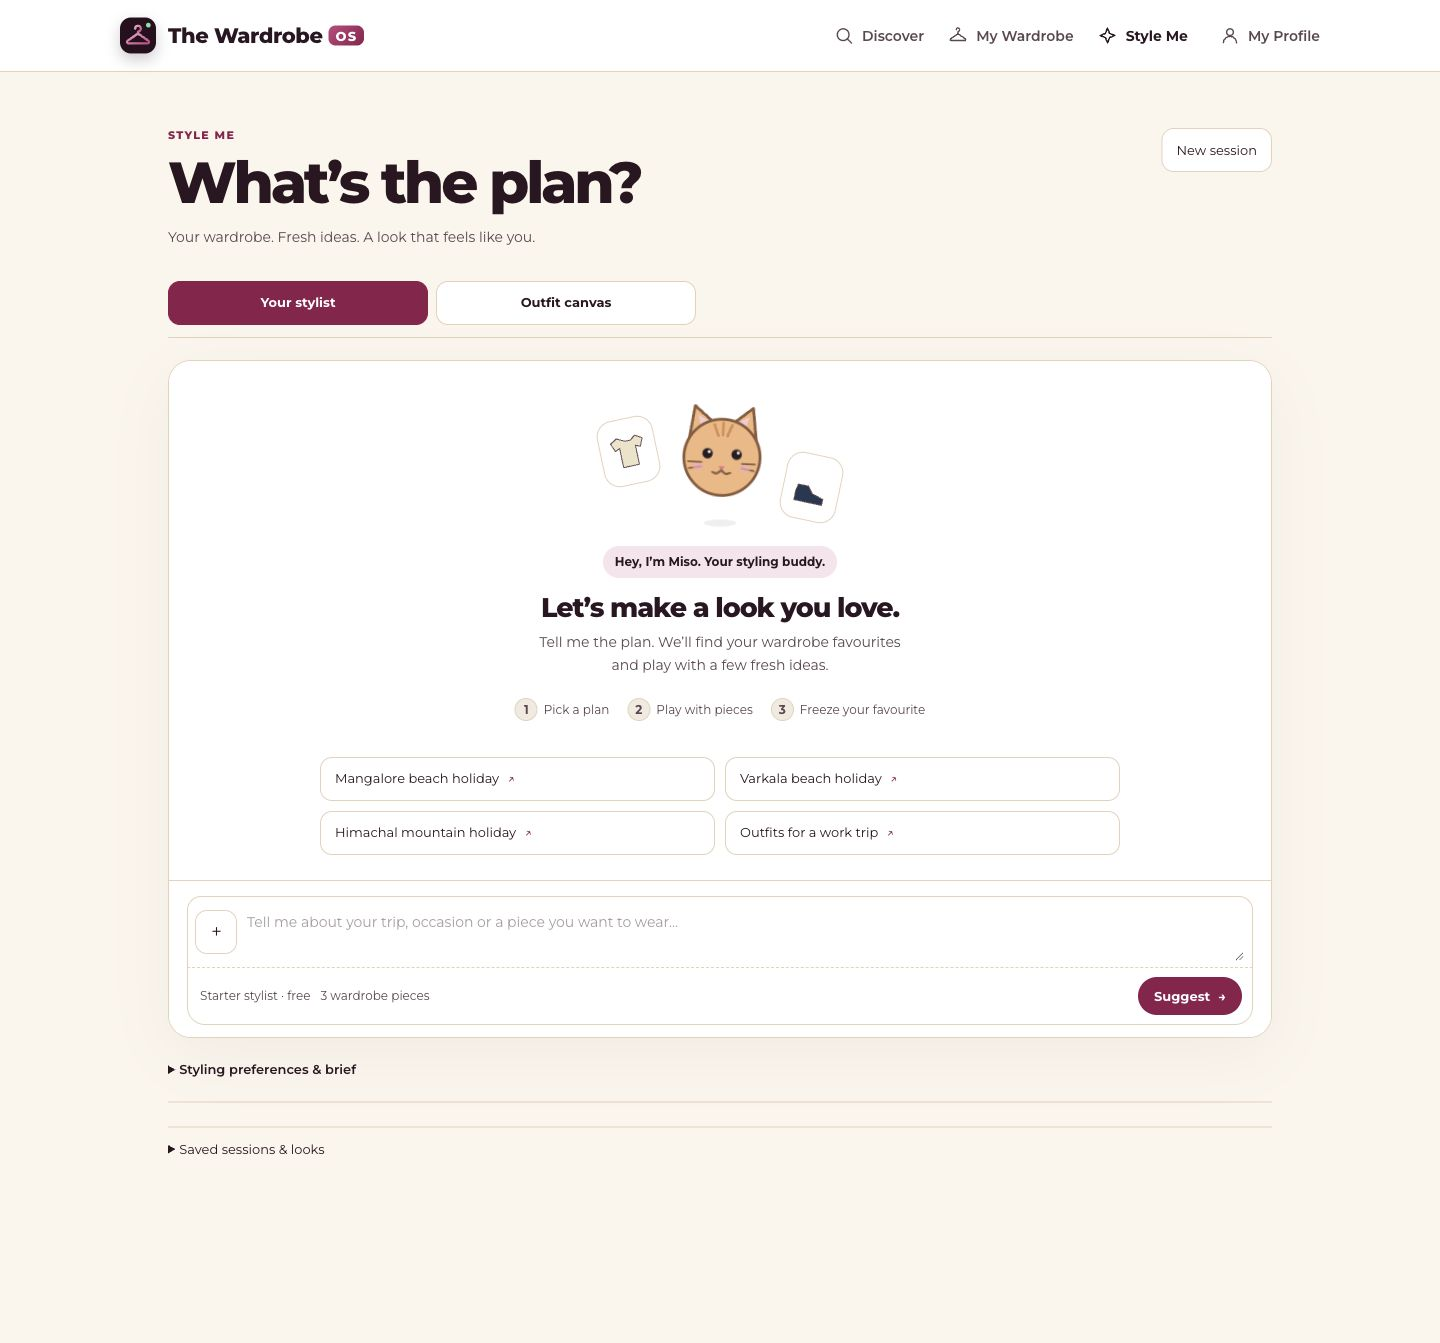
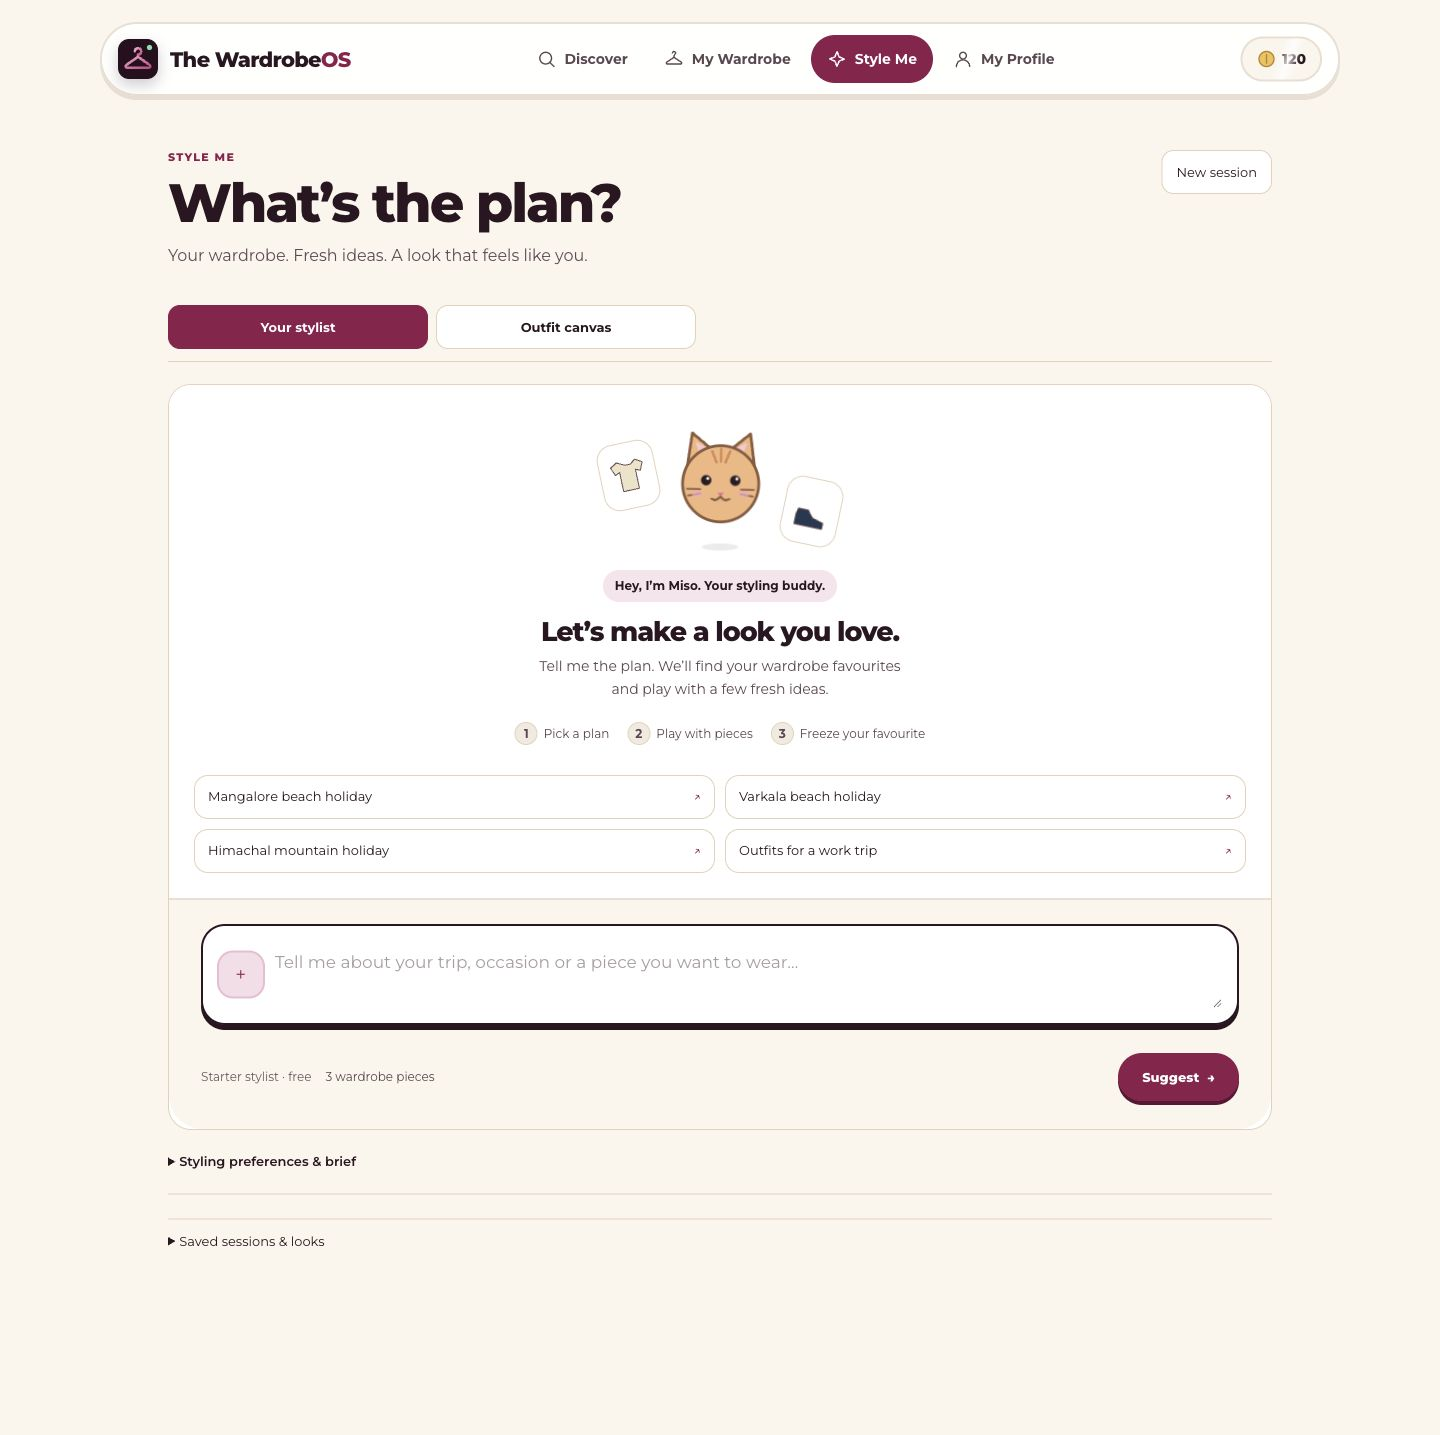
Keep Style Me visible when shared Sticker Studio styles load
Scope the greeting, prompts and mobile composer so Discover overrides do not hide or flatten them. Verified desktop and 390px browser rendering after integrating main, with no phone overflow; integrated suite passed 238 tests with 2 existing skips.

diff --git a/prototype/dist/style-me/style-me.css b/prototype/dist/style-me/style-me.css
@@ -36,3 +36,7 @@
 .sm-buddy-checkin{display:flex;gap:10px;align-items:center;padding-bottom:12px;border-bottom:1px solid var(--border)}.sm-buddy-checkin strong{font-size:13px}.sm-buddy-checkin .sm-style-steps{margin:10px 0 0;justify-content:flex-start}.sm-root .sm-buddy-checkin .sm-buddy{min-width:56px;min-height:56px}@media(max-width:700px){.sm-buddy-checkin{align-items:flex-start}.sm-buddy-checkin>div{flex:1}.sm-buddy-checkin .sm-style-steps{justify-content:space-between}.sm-buddy-checkin .sm-style-steps li{font-size:11px}.sm-root .dc-intro h1{font-size:29px}.sm-root .dc-intro p{font-size:13px}}
 
 @media(max-width:700px){.sm-root .dc-intro{display:block;position:relative;margin-bottom:18px}.sm-root .dc-intro .dc-kicker{padding-top:6px;margin-bottom:26px}.sm-root .dc-intro .dc-reset{position:absolute;top:0;right:0;min-height:36px;padding:8px 12px;font-size:12px}.sm-root .dc-intro h1{margin:8px 0;letter-spacing:-.055em}.sm-root .dc-intro p{max-width:320px}.sm-root .dc-welcome{margin-top:0}.sm-buddy-scene{min-height:106px}.sm-buddy-welcome .sm-style-steps{margin-top:14px}}
+
+/* Keep Discover's Sticker Studio overrides from hiding or flattening Style Me. */
+.sm-root.dc-shell .dc-welcome{display:block;text-align:center;margin:8px auto 0;padding:0}.sm-root.dc-shell .dc-welcome h2{display:block}.sm-root.dc-shell .dc-thread{padding:25px}.sm-root.dc-shell .dc-panel{border:1px solid var(--border);border-radius:23px;box-shadow:none;overflow:hidden}.sm-root.dc-shell .dc-examples{display:grid;grid-template-columns:repeat(2,minmax(0,1fr));grid-auto-flow:row;grid-auto-columns:auto;gap:10px;overflow:visible;padding:0}.sm-root.dc-shell .dc-examples>button{display:flex;flex-direction:row;align-items:center;justify-content:space-between;min-height:44px;border:1px solid var(--border);border-radius:14px;background:var(--surface);padding:10px 13px;box-shadow:none}.sm-root.dc-shell .dc-examples>button>span:last-child{display:inline;color:var(--primary)}
+@media(max-width:700px){.sm-root.dc-shell .dc-thread{padding:18px 16px}.sm-root.dc-shell .dc-intro h1{font-size:29px}.sm-root.dc-shell .dc-panel{height:auto;min-height:0;overflow:visible}.sm-root.dc-shell .dc-welcome{margin-top:0}.sm-root.dc-shell .dc-examples>button{font-size:12px;padding:10px}.sm-root.dc-shell .dc-compose-row{flex-wrap:nowrap}.sm-root.dc-shell .dc-text-wrap{min-width:0}.sm-root.dc-shell .dc-composer{padding:14px}.sm-root.dc-shell .dc-send{width:auto;margin-left:auto}}

diff --git a/docs/style-me-implementation.md b/docs/style-me-implementation.md
@@ -2,6 +2,8 @@
 
 ## Styling buddy UI follow-up — 14 October 2026
 
+Before merging PR #34, integrated main `fc93b54` (Sticker Studio #32 and Android #33). Browser inspection found global Discover styles hiding the Style Me greeting and flattening its prompts; scoped Style Me overrides restore the reviewed greeting and two-column prompt buttons. Updated desktop/390px screenshots confirm the integration; phone page width remains 390px. Integrated checks: 238 pass, 2 existing database skips, 0 fail. My Wardrobe and native mobile files match main.
+
 Owner-facing navigation now says **Your stylist** and **Outfit canvas**; internal section numbers are removed from the UI. The empty conversation greets with the illustrated Discover characters, with a tappable buddy switch, bob/blink motion and reduced-motion support. Buddy avatars accompany replies and generation states. A three-step outfit journey reflects actual saved state: suggestions, Canvas pieces, and frozen designs. Changing the buddy makes no generation/save request. Mobile heading spacing and selected-tab hover contrast were corrected.
 
 Rendered and inspected at the normal desktop viewport and 390×844 phone width. Browser interaction covered changing the buddy, a curated Himachal prompt, selecting a look in Canvas and returning to see completed journey steps. Phone document width matched the 390px viewport. Check passed; full tests: 213 pass, 2 existing database skips. Screenshots: `screenshots/style-me-buddy-desktop.png` and `screenshots/style-me-buddy-mobile.png`. My Wardrobe and native mobile implementation files were not changed.
